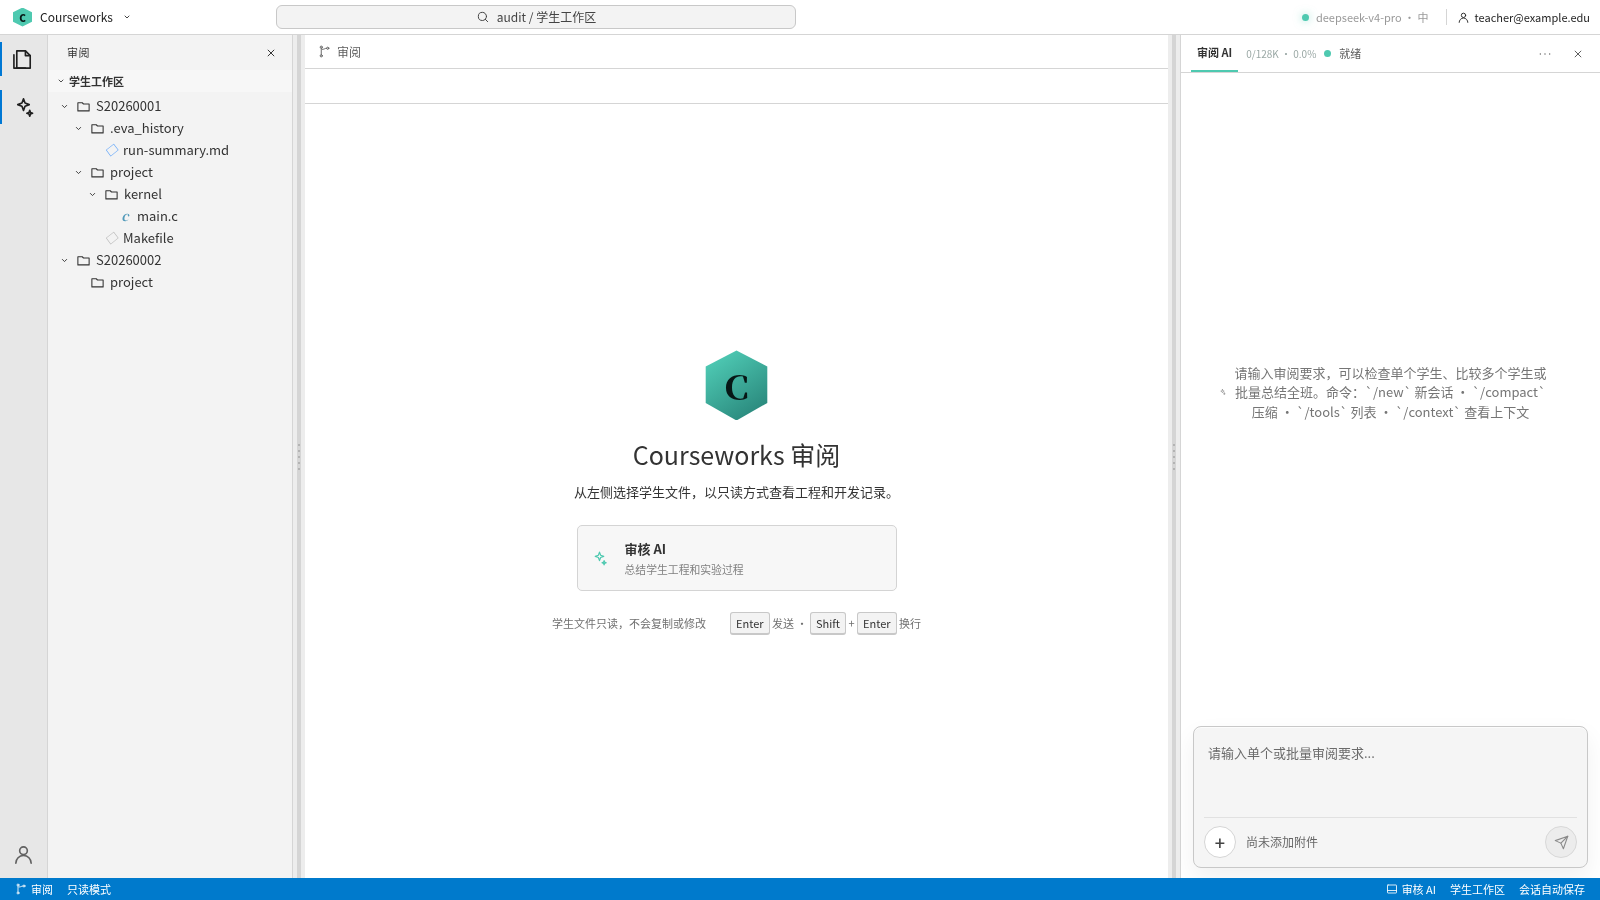
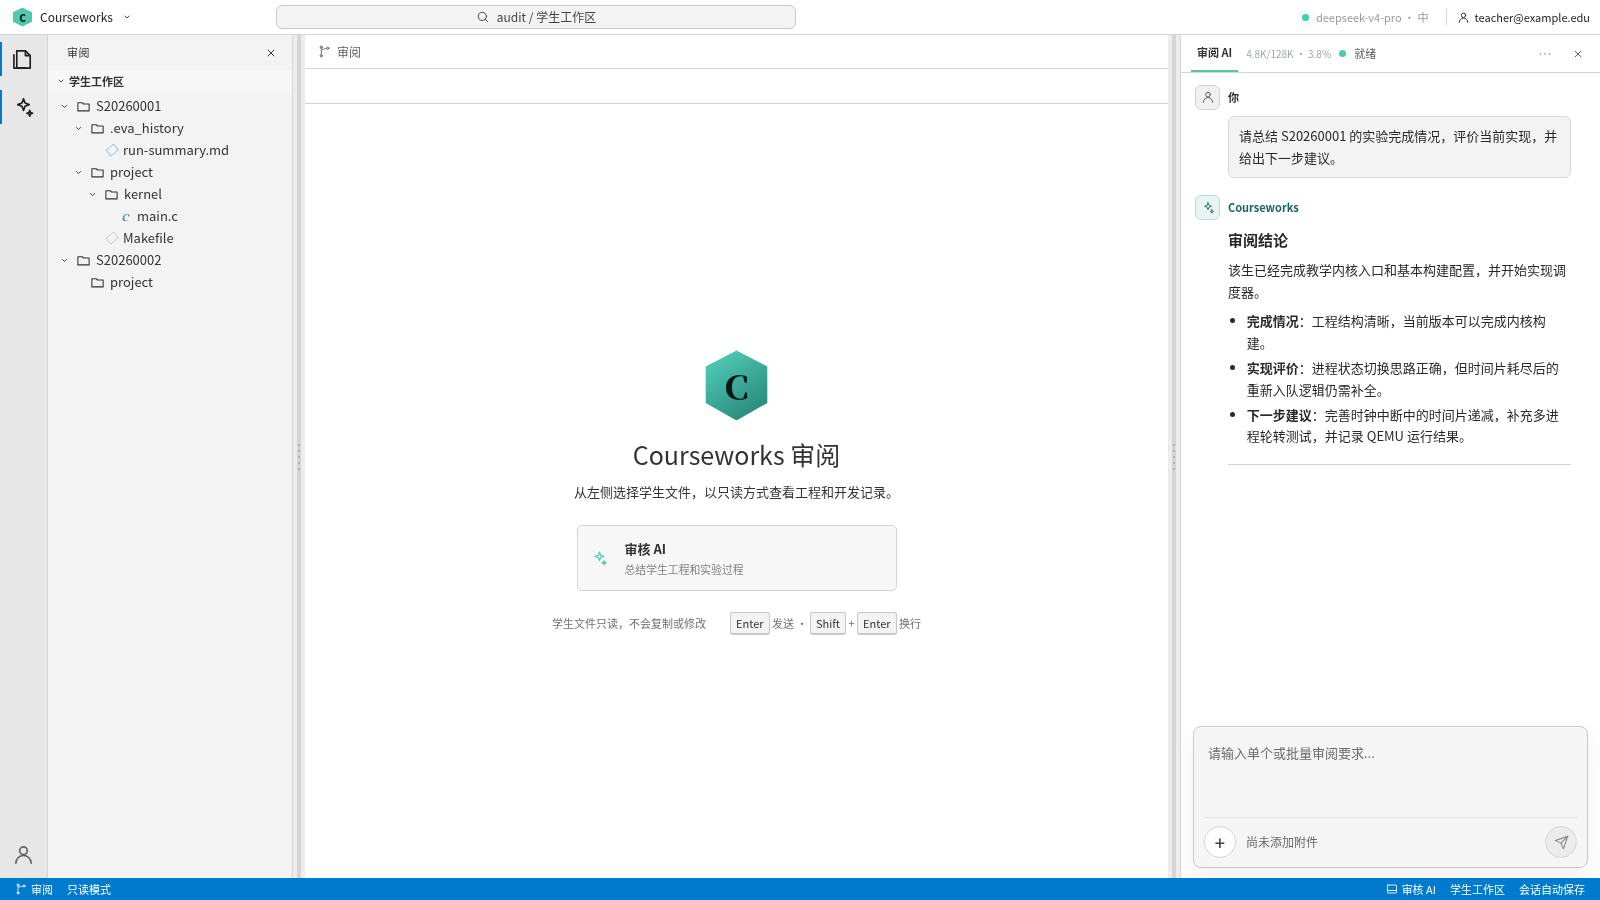
updated README.md

diff --git a/scripts/docs_fixture_server.py b/scripts/docs_fixture_server.py
@@ -183,7 +183,7 @@ def run_homeworks(data_root: Path, port: int) -> None:
             published_at=datetime.now() - timedelta(days=7),
         )
         todo_assignment = Assignment(
-            title="存储管理预习",
+            title="同步与互斥预习",
             course_id=course.id,
             chapter_id=chapter.id,
             class_id=klass.id,
@@ -243,6 +243,7 @@ def run_homeworks(data_root: Path, port: int) -> None:
         teacher_id = teacher.id
         student_id = student.id
         grading_assignment_id = grading_assignment.id
+        todo_assignment_id = todo_assignment.id
 
     @app.get("/__docs/login/<role>")
     def docs_login(role):
@@ -251,6 +252,8 @@ def run_homeworks(data_root: Path, port: int) -> None:
         session["user_id"] = teacher_id if role == "teacher" else student_id
         if role == "teacher":
             return redirect(f"/teacher/assignments/{grading_assignment_id}/grade/{student_id}")
+        if role == "student-ai":
+            return redirect(f"/student/assignments/{todo_assignment_id}")
         return redirect("/student/")
 
     app.run(host="127.0.0.1", port=port, use_reloader=False)
@@ -277,6 +280,7 @@ def run_slideshow(data_root: Path, port: int) -> None:
                 class_id INTEGER, enabled INTEGER
             );
             INSERT INTO users VALUES (1, 'docs-teacher', 'teacher@example.edu', 10, 1);
+            INSERT INTO users VALUES (2, 'docs-student', 'student@example.edu', 10, 1);
         """)
     with sqlite3.connect(courses_db) as database:
         database.executescript("""
@@ -367,6 +371,21 @@ def run_slideshow(data_root: Path, port: int) -> None:
             "course_name": "操作系统原理",
         }
         return redirect("/")
+
+    @app.get("/__docs/login/student-ai")
+    def docs_student_ai_login():
+        session.clear()
+        session["_csrf_token"] = "docs-only-csrf"
+        session["slideshow_user"] = {
+            "external_id": "docs-student",
+            "email": "student@example.edu",
+            "name": "林同学",
+            "role": "student",
+            "class_id": 10,
+            "class_name": "操作系统实验班",
+            "course_name": "操作系统原理",
+        }
+        return redirect("/presentations/processes")
 
     app.run(host="127.0.0.1", port=port, use_reloader=False)
 

diff --git a/docs/pictures/README.md b/docs/pictures/README.md
@@ -14,12 +14,14 @@ Courseworks 的课程工作区、教师审阅模式和 OS Lab 截图统一使用
 | `portal-student.png` | 学生服务门户 |
 | `portal-teacher.png` | 教师服务门户 |
 | `provider-profiles.png` | AI Provider 管理 |
-| `slideshow.png` | 课件浏览与问答 |
+| `slideshow.png` | 教师课件列表 |
+| `slideshow-ai-tutor.png` | 学生在课件中使用 AI 问答 |
 | `homeworks-student.png` | 学生作业页面 |
+| `homeworks-ai-tutor.png` | 学生使用逐题 AI 作业辅导 |
 | `homeworks-grading.png` | 教师批改页面 |
 | `courseworks.png` | Courseworks 编辑器和 AI 助手 |
 | `os-lab.png` | Bash + QEMU + noVNC 操作系统实验环境 |
-| `courseworks-audit.png` | 教师审阅模式 |
+| `courseworks-audit.png` | 教师通过自然语言对话总结和评价学生工作 |
 | `admin-console.png` | 超级管理员控制台 |
 | `teacher-class-provider-quota-dialog.png` | 教师为班级指定 AI Provider 与每日配额的对话框 |
 
